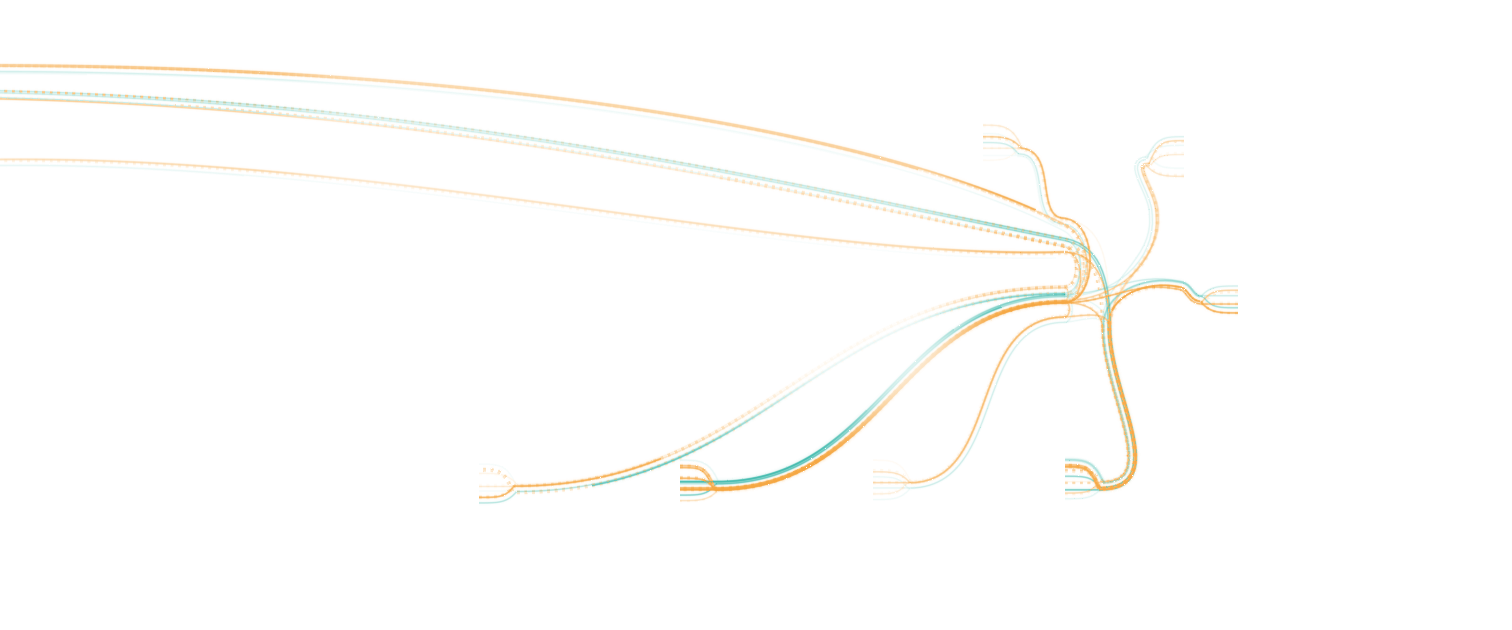
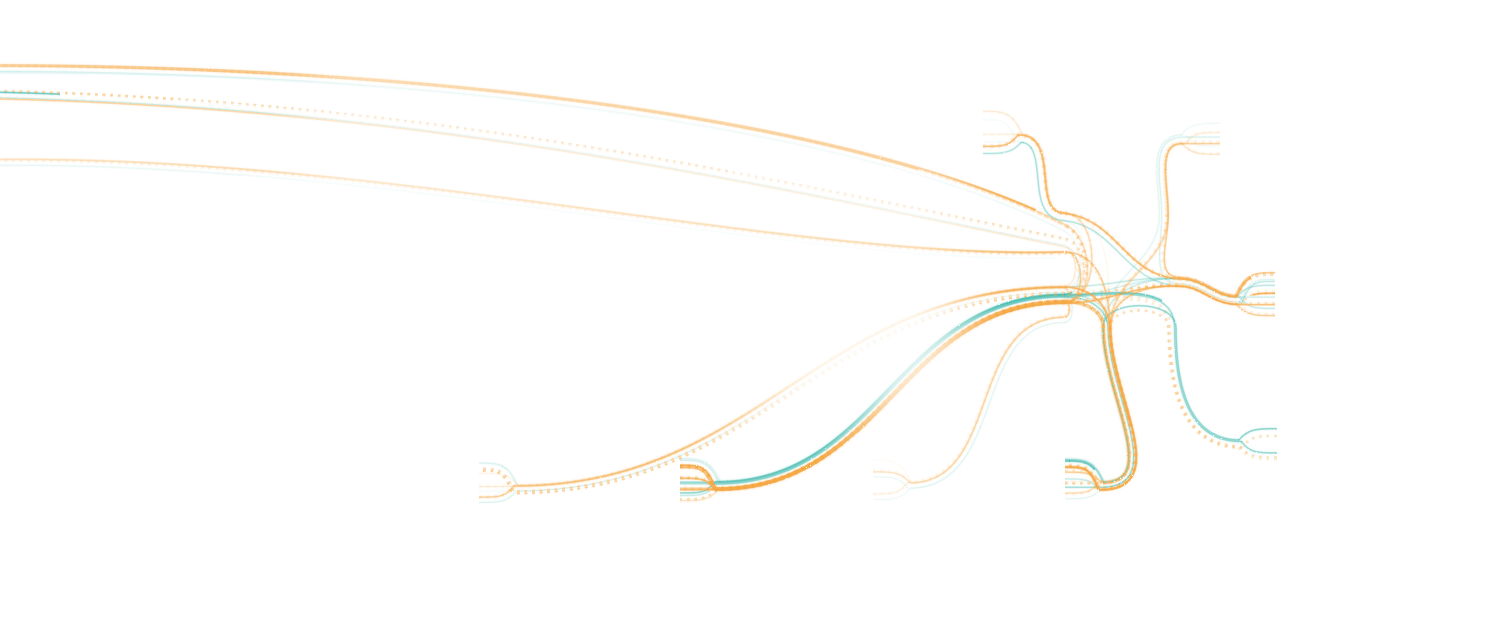
site: hero web, right-hand places stand further off the hub (as far as the safe-zone and lane tests allow)

diff --git a/site/experiments/hero-b/web-places.ts b/site/experiments/hero-b/web-places.ts
@@ -94,10 +94,10 @@ export const SLOTS: Record<"P" | "M" | "W" | "tall", Slot[]> = {
     S(1550, 760, "end", "cloud-2", "website-2", "ci-4"),
   ],
   M: [
-    S(1490, 165, "start", "office-3", "cloud-2"),
-    S(1765, 235, "start", "cloud-1", "home-2"),
+    S(1490, 135, "start", "office-3", "cloud-2"),
+    S(1778, 226, "start", "cloud-1", "home-2"),
     S(1795, 425, "start", "home-1", "teammate-4"),
-    S(1785, 615, "start", "ci-4", "office-1"),
+    S(1809, 618, "start", "ci-4", "office-1"),
     S(1625, 735, "end", "cloud-3", "home-3"),
     S(1340, 728, "end", "office-2", "cloud-4", "website-2"),
     S(1040, 745, "end", "teammate-2"),
@@ -106,10 +106,10 @@ export const SLOTS: Record<"P" | "M" | "W" | "tall", Slot[]> = {
   ],
   // No cards left of the copy (a card's track would cross the headline); only the reaches go there.
   W: [
-    S(1560, 185, "start", "office-3", "cloud-2"),
-    S(1880, 200, "start", "cloud-1", "home-2", "home-1"),
-    S(1965, 420, "start", "teammate-4", "cloud-3"),
-    S(1955, 640, "start", "office-2", "cloud-4", "ci-4"),
+    S(1560, 163, "start", "office-3", "cloud-2"),
+    S(1936, 165, "start", "cloud-1", "home-2", "home-1"),
+    S(2024, 420, "start", "teammate-4", "cloud-3"),
+    S(2027, 648, "start", "office-2", "cloud-4", "ci-4"),
     S(1690, 715, "end", "teammate-2"),
     S(1385, 715, "end", "office-1", "home-3"),
     S(1080, 715, "end", "website-2"),
